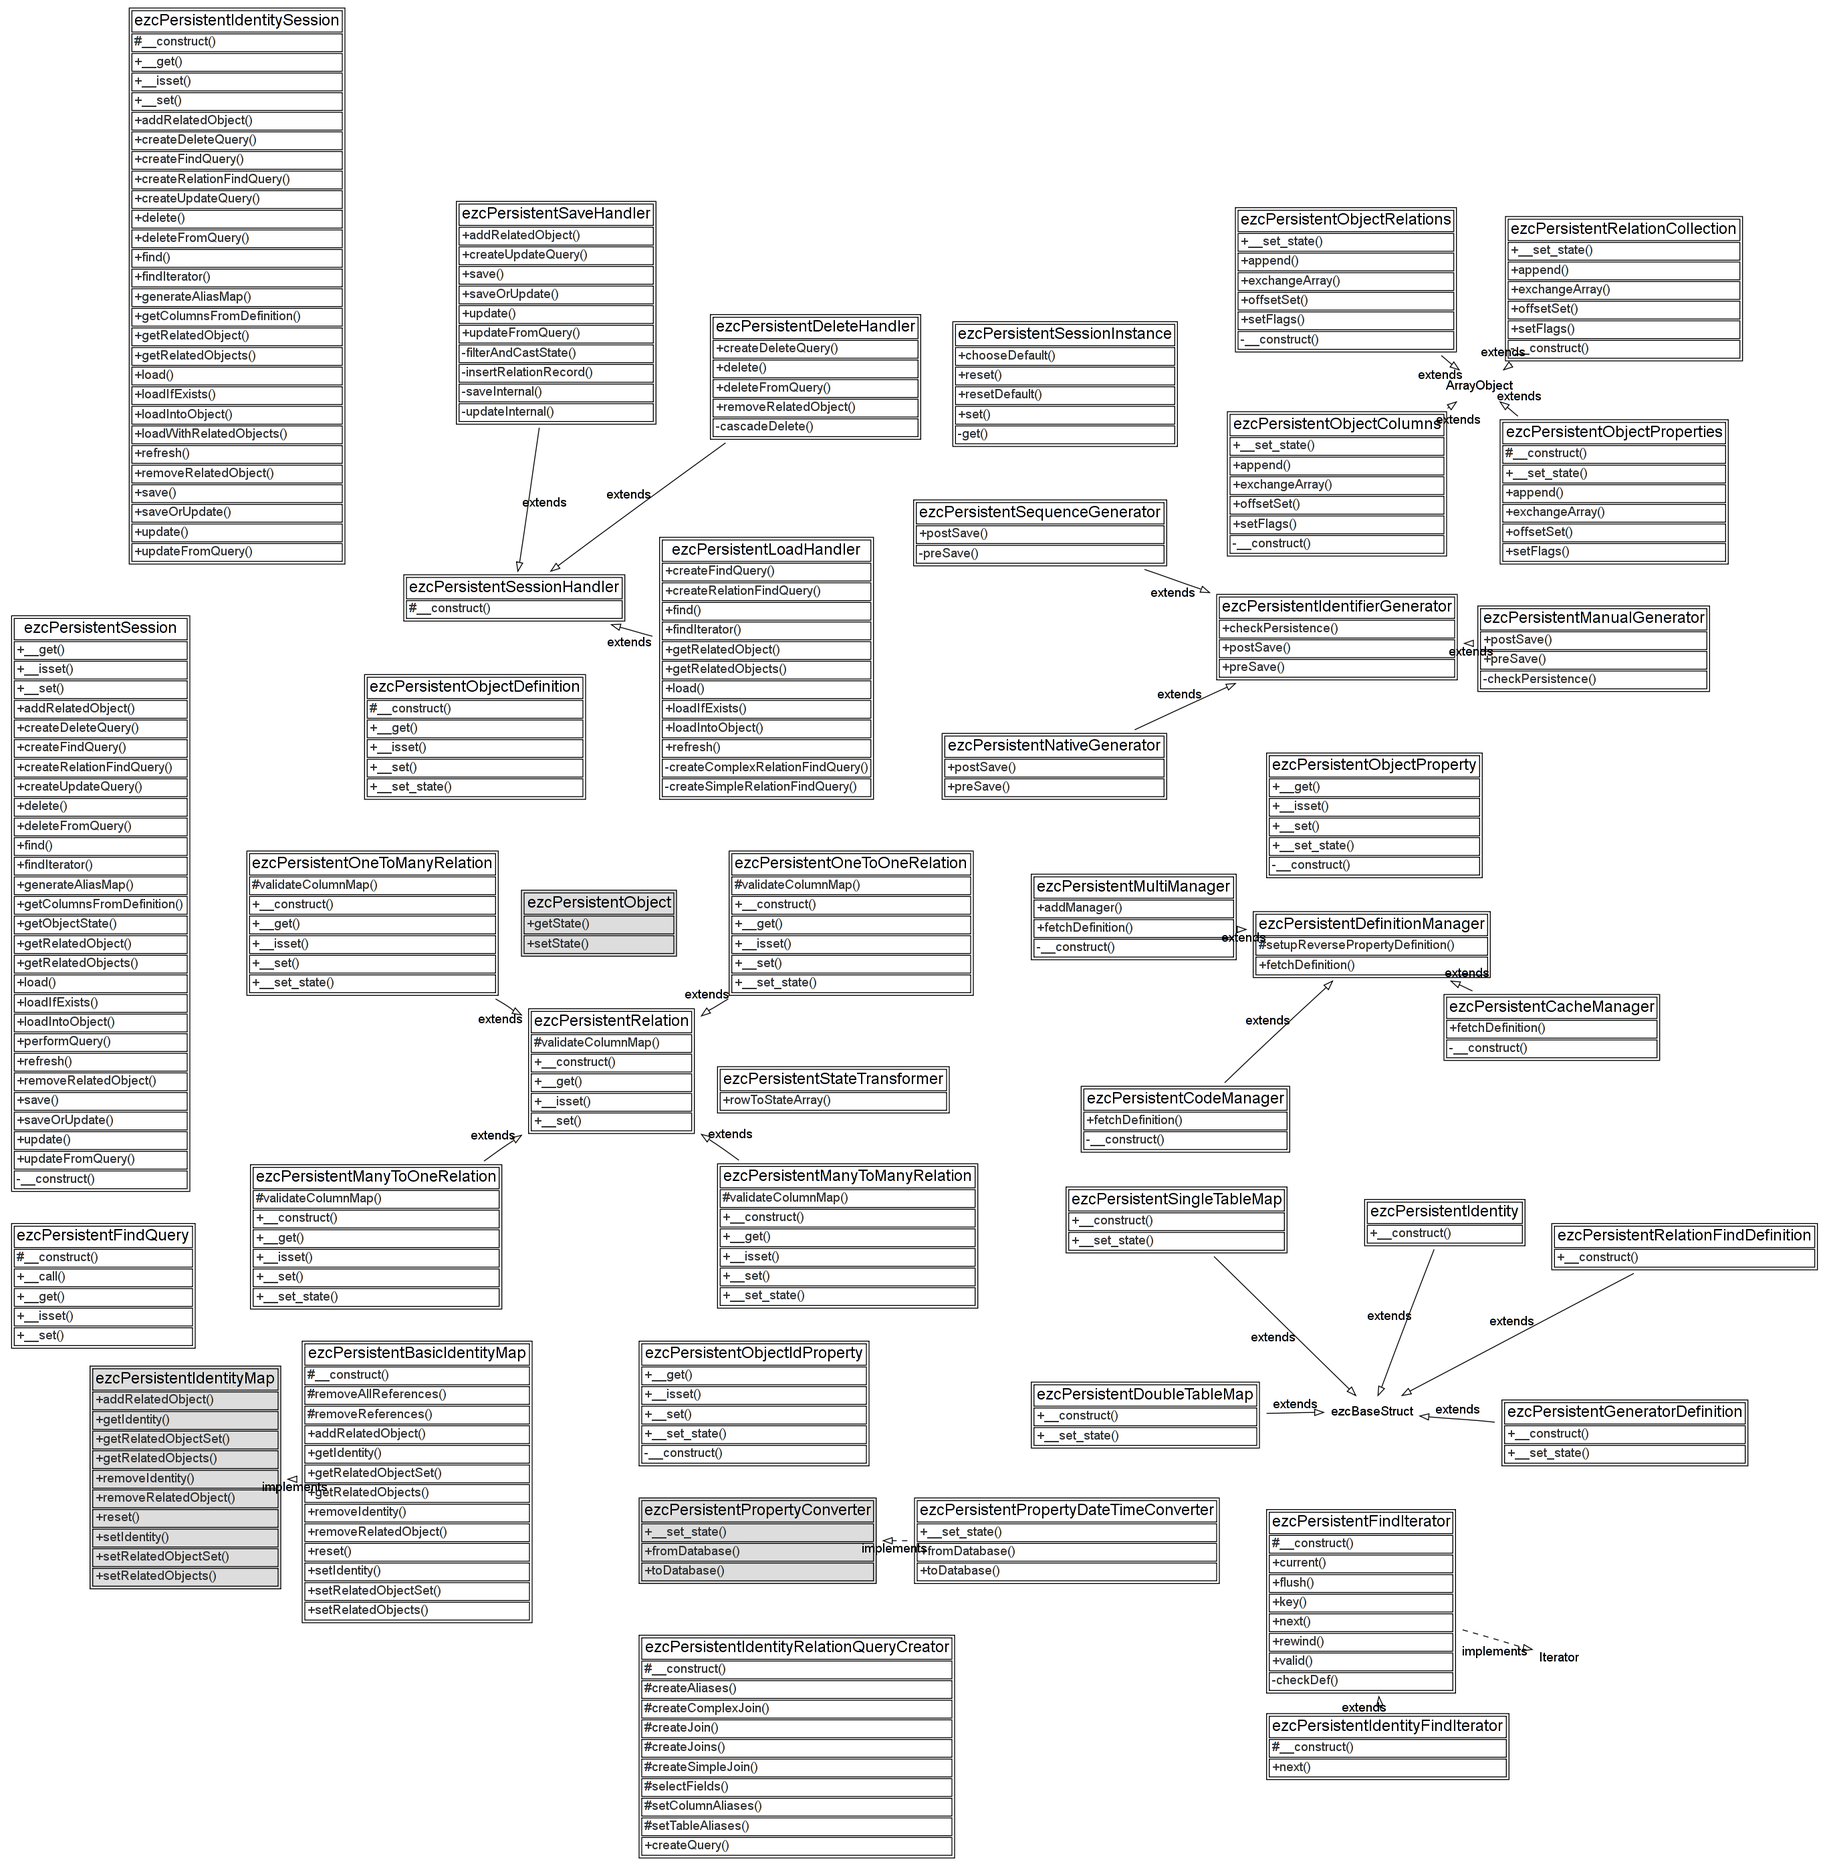
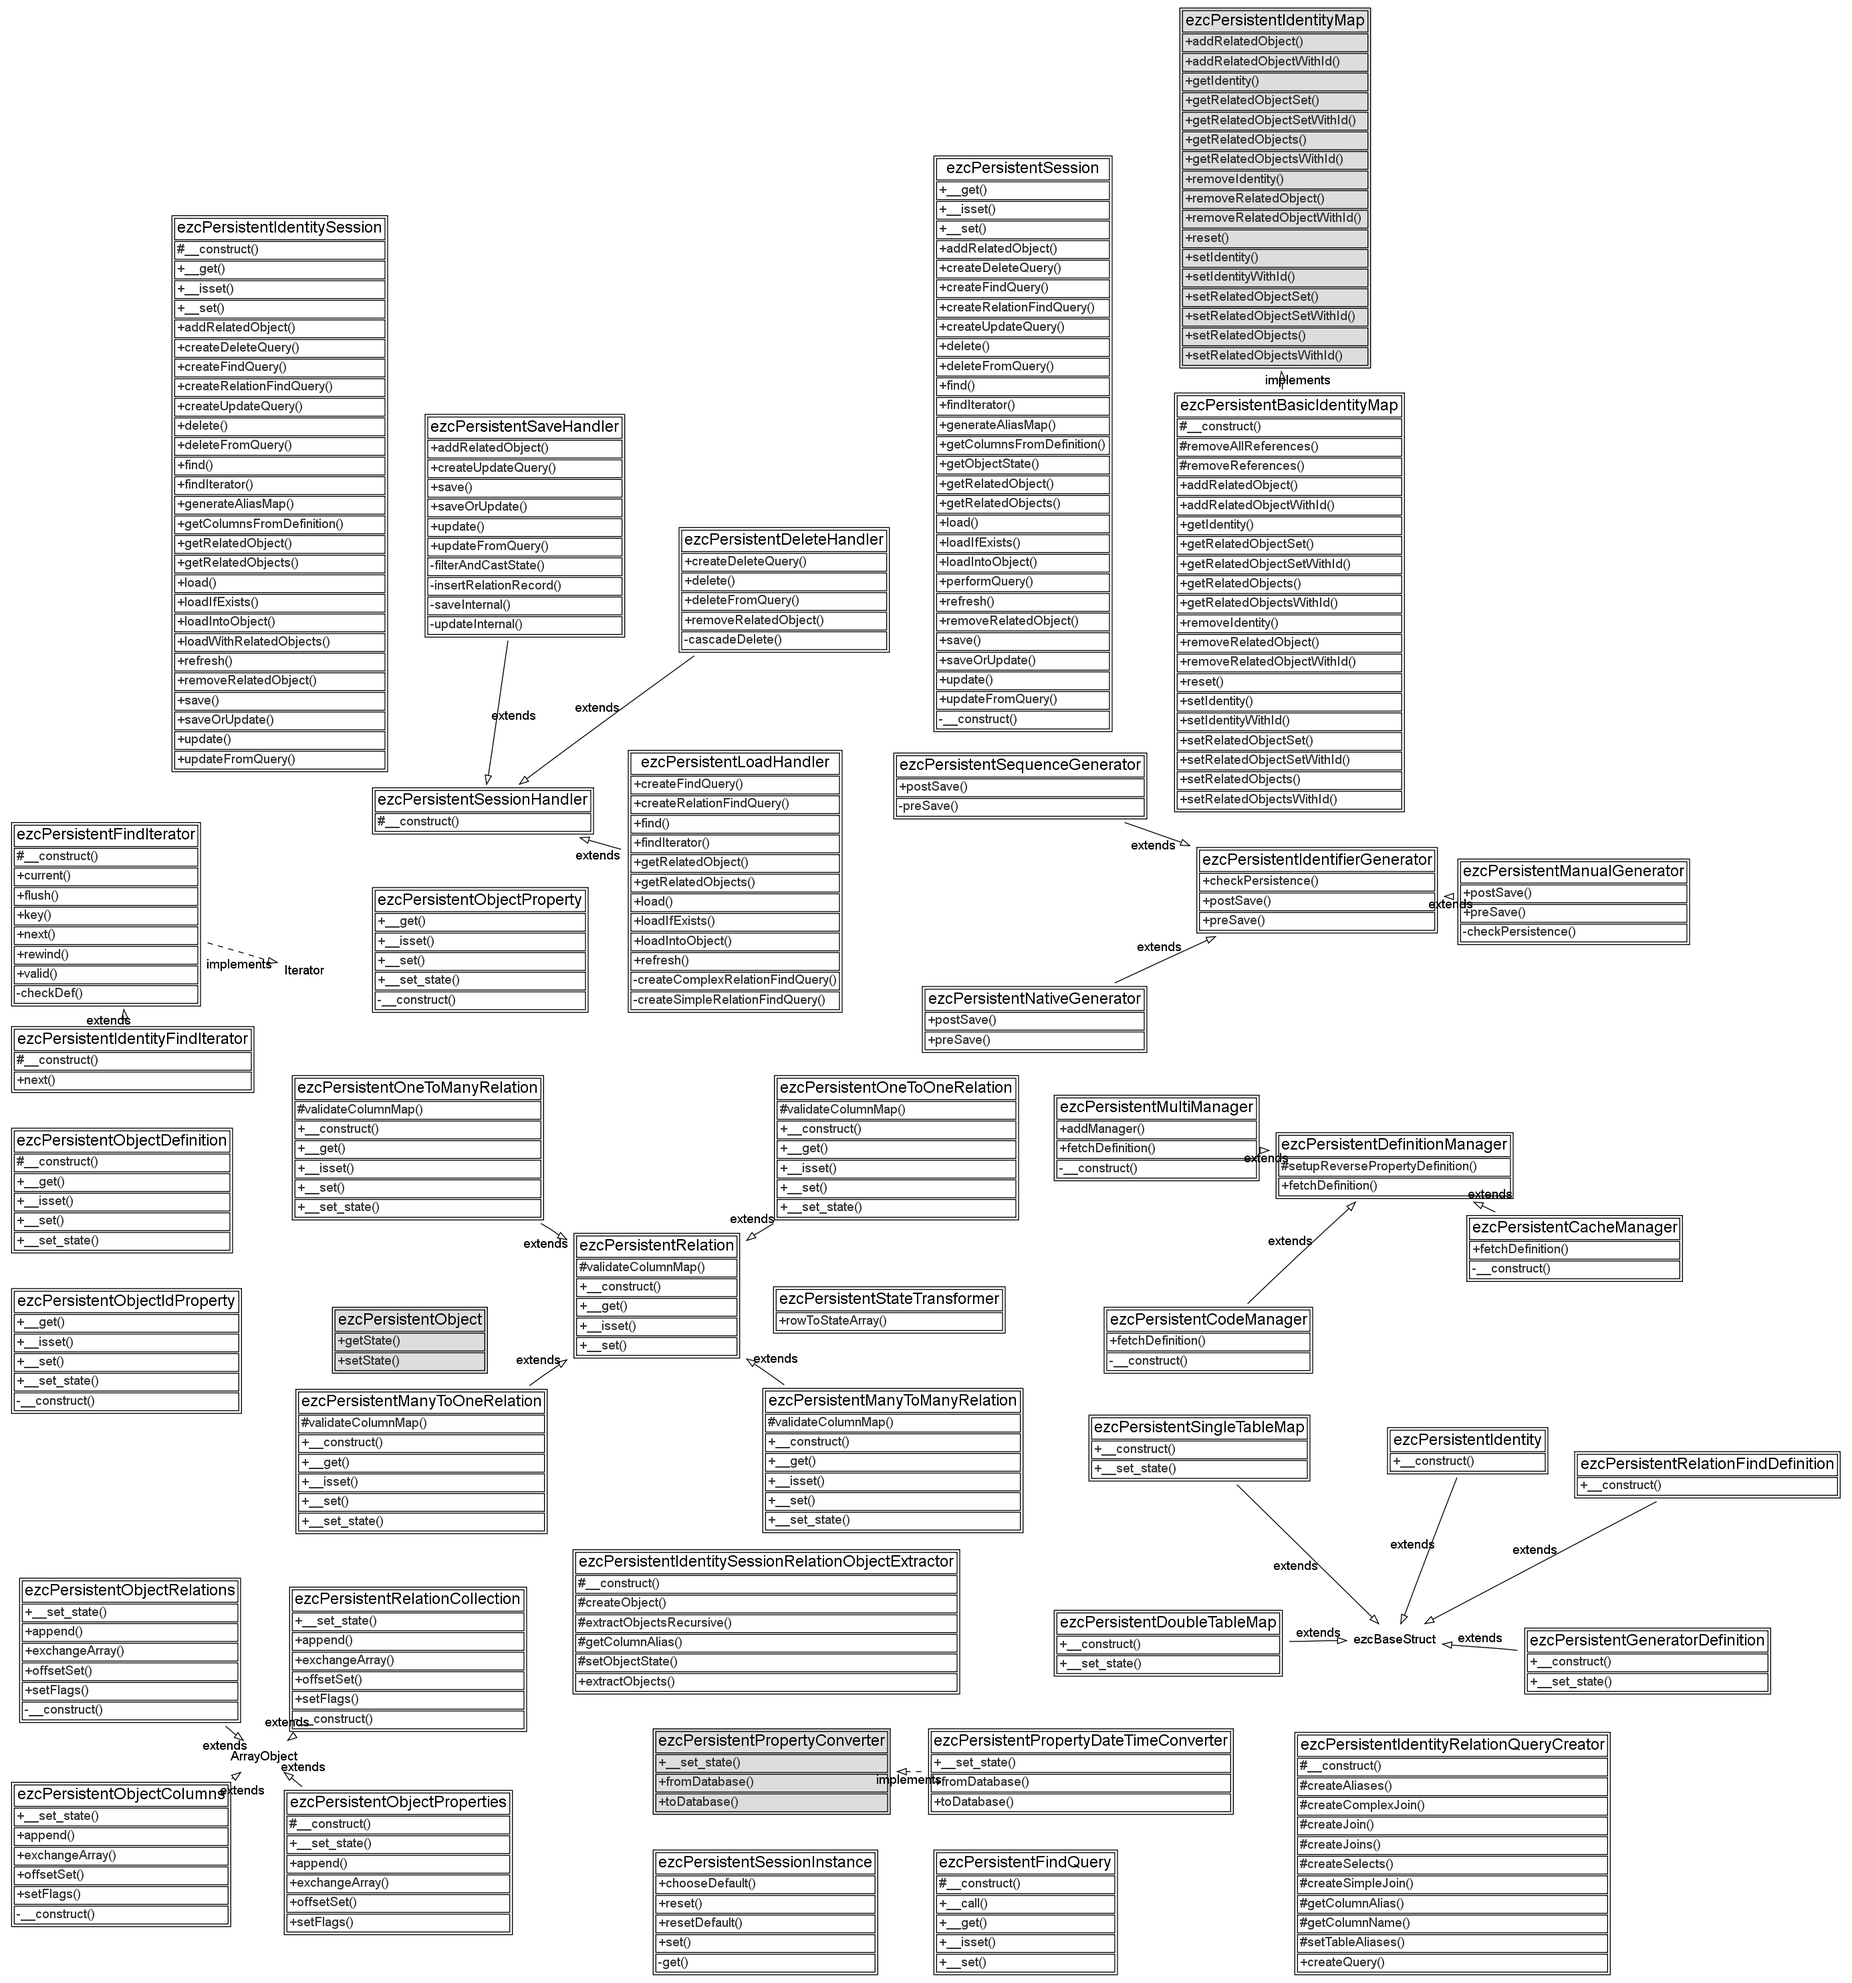
- Added first draft implementation of   ezcPersistentIdentitySessionRelationObjectExtractor and first test case. # More test cases to come.
git-svn-id: http://svn.ez.no/svn/ezcomponents/trunk@9965 bc0e7bdc-f0fc-0310-8ff6-f601c06e1256

Changed region(s): [[0.0, 0.0, 0.9942, 0.9971]]

diff --git a/PersistentObject/src/identity_session/relation_object_extractor.php b/PersistentObject/src/identity_session/relation_object_extractor.php
@@ -1,0 +1,223 @@
+<?php
+
+class ezcPersistentIdentitySessionRelationObjectExtractor
+{
+    /**
+     * Definition manager.
+     * 
+     * @var ezcPersistentDefinitionManager
+     */
+    protected $defManager;
+
+    /**
+     * Identity map.
+     * 
+     * @var ezcPersistentIdentityMap
+     */
+    protected $idMap;
+
+    /**
+     * Creates a new object extractor for $idMap on basis of $defManager.
+     * 
+     * @param ezcPersistentDefinitionManager $defManager 
+     * @return void
+     */
+    public function __construct( ezcPersistentIdentityMap $idMap, ezcPersistentDefinitionManager $defManager )
+    {
+        $this->defManager = $defManager;
+        $this->idMap      = $idMap;
+    }
+
+    /**
+     * Extracts all objects and relations from $stmt.
+     *
+     * Extracts the object of $class with $id from $row and all of its related
+     * objects defined in $relations.
+     * 
+     * @param PDOStatement $stmt 
+     * @param string $class 
+     * @param mixed $id 
+     * @param array $relations 
+     * @return void
+     */
+    public function extractObjects( PDOStatement $stmt, $class, $id, array $relations )
+    {
+        $results = $stmt->fetchAll( PDO::FETCH_ASSOC );
+
+        $def = $this->defManager->fetchDefinition( $class );
+
+        if ( $this->idMap->getIdentity( $class, $id ) === null )
+        {
+            $object = new $class();
+            $this->setObjectState(
+                $object,
+                $def,
+                reset( $results )
+            );
+            $this->idMap->setIdentityWithId( $object, $class, $id );
+        }
+        
+        foreach ( $results as $row )
+        {
+            $this->extractObjectsRecursive( $row, $relations, $class, $id );
+        }
+    }
+
+    /**
+     * Extracts objects recursively from $row.
+     *
+     * Checks if $row contains new objects defined in $relations. If this is
+     * the case, the objects will be extracted and added as related objects of
+     * their class for the object of $parentClass with $parentId.
+     * 
+     * @param array $row 
+     * @param array $relations 
+     * @param string $parentClass 
+     * @param mixed $parentId 
+     * @return void
+     */
+    protected function extractObjectsRecursive( array $row, array $relations, $parentClass, $parentId )
+    {
+        foreach ( $relations as $relation )
+        {
+            $id = $row[
+                $this->getColumnAlias(
+                    $relation->definition->idProperty->columnName,
+                    $relation->tableAlias
+                )
+            ];
+
+            // Check if object was already extracted
+            $object = $this->idMap->getIdentity( $relation->relatedClass, $id );
+            if ( $object === null )
+            {
+                $object = $this->createObject(
+                    $row,
+                    $relation
+                );
+                $this->idMap->setIdentityWithId( $object, $relation->relatedClass, $id );
+            }
+
+            // Check if relations from $parentClass to $relation->relatedClass were already recorded
+            $relatedObjects = $this->idMap->getRelatedObjectsWithId(
+                $parentClass,
+                $parentId,
+                $relation->relatedClass,
+                $relation->relationName
+            );
+            if ( $relatedObjects === null )
+            {
+                // Establish empty related objects to be able to add new later.
+                $relatedObjects = array();
+                $this->idMap->setRelatedObjectsWithId(
+                    $parentClass,
+                    $parentId,
+                    $relatedObjects,
+                    $relation->relatedClass,
+                    $relation->relationName
+                );
+            }
+
+            // Check if relation itself is already recorded
+            if ( !isset( $relatedObjects[$id] ) )
+            {
+                // Add related object
+                // @TODO: This invalidates all named related sets, which is not
+                // a good idea as soon as we support finding restricted related
+                // sets.
+                $this->idMap->addRelatedObjectWithId(
+                    $parentClass,
+                    $parentId,
+                    $relation->relatedClass,
+                    $id,
+                    $object,
+                    $relation->relationName
+                );
+            }
+            
+            // Recurse
+            $this->extractObjectsRecursive(
+                $row,
+                $relation->furtherRelations,
+                $relation->relatedClass,
+                $id
+            );
+        }
+    }
+
+    /**
+     * Creates a new object of $relation->relatedClass with state from $result.
+     *
+     * Creates a new object of the class defined in $relation->relatedClass and
+     * sets its state from the given $result row, as defined in $relation.
+     * 
+     * @param array $result 
+     * @param ezcPersistentRelationFindDefinition $relation 
+     * @return ezcPersistentObject
+     */
+    protected function createObject( array $result, ezcPersistentRelationFindDefinition $relation )
+    {
+        $object = new $relation->relatedClass;
+        $this->setObjectState(
+            $object,
+            $relation->definition,
+            $result,
+            $relation->tableAlias
+        );
+        return $object;
+    }
+
+    /**
+     * Sets the state of $object from $result.
+     *
+     * Sets the state of $object from the $result given, using the $def.
+     * 
+     * @param ezcPersistentObject $object 
+     * @param ezcPersistentObjectDefinition $def 
+     * @param array $result 
+     * @param string $prefix 
+     * @return void
+     */
+    protected function setObjectState( $object, ezcPersistentObjectDefinition $def, array $result, $prefix = null )
+    {
+        $state = array(
+            $def->idProperty->propertyName => $result[
+                $this->getColumnAlias(
+                    $def->idProperty->columnName,
+                    $prefix
+                )
+            ]
+        );
+
+        foreach ( $def->properties as $property )
+        {
+            $state[$property->propertyName] = $result[
+                $this->getColumnAlias( $property->columnName, $prefix )
+            ];
+        }
+
+        $object->setState( $state );
+    }
+
+    /**
+     * Returns the column alias for a $column with $prefix.
+     * 
+     * @param string $column 
+     * @param string $prefix 
+     * @return string
+     */
+    protected function getColumnAlias( $column, $prefix = null )
+    {
+        if ( $prefix === null )
+        {
+            return $column;
+        }
+        return sprintf(
+            '%s_%s',
+            $prefix,
+            $column
+        );
+    }
+}
+
+?>

diff --git a/PersistentObject/tests/persistent_identity_session_relation_object_extractor_test.php b/PersistentObject/tests/persistent_identity_session_relation_object_extractor_test.php
@@ -1,0 +1,123 @@
+<?php
+/**
+ * @copyright Copyright (C) 2005-2009 eZ Systems AS. All rights reserved.
+ * @license http://ez.no/licenses/new_bsd New BSD License
+ * @version //autogentag//
+ * @filesource
+ * @package PersistentObject
+ * @subpackage Tests
+ */
+
+require_once dirname( __FILE__ ) . "/data/relation_test_employer.php";
+require_once dirname( __FILE__ ) . "/data/relation_test_person.php";
+require_once dirname( __FILE__ ) . "/data/relation_test_address.php";
+
+/**
+ * Tests ezcPersistentManyToOneRelation class.
+ *
+ * @package PersistentObject
+ * @subpackage Tests
+ */
+class ezcPersistentIdentitySessionRelationObjectExtractorTest extends ezcTestCase
+{
+    protected $defManager;
+
+    protected $sesstion;
+
+    protected $idMap;
+
+    protected $creator;
+
+    protected $extractor;
+
+    public static function suite()
+    {
+        return new PHPUnit_Framework_TestSuite( __CLASS__ );
+    }
+
+    public function setup()
+    {
+        try
+        {
+            $this->db = ezcDbInstance::get();
+        }
+        catch ( Exception $e )
+        {
+            $this->markTestSkipped( 'There was no database configured' );
+        }
+        RelationTestPerson::setupTables();
+        RelationTestPerson::insertData();
+
+        // @TODO: This is currently needed to fix the attribute set in
+        // ezcDbHandler. Should be removed as soon as this is fixed!
+        $this->db->setAttribute( PDO::ATTR_CASE, PDO::CASE_NATURAL );
+
+        $this->defManager = new ezcPersistentCodeManager( dirname( __FILE__ ) . "/data/" );
+
+        $this->session = new ezcPersistentSession(
+            ezcDbInstance::get(),
+            $this->defManager
+        );
+
+        $this->idMap = new ezcPersistentBasicIdentityMap(
+            $this->defManager
+        );
+
+        $this->creator = new ezcPersistentIdentityRelationQueryCreator(
+            $this->defManager
+        );
+
+        $this->extractor = new ezcPersistentIdentitySessionRelationObjectExtractor(
+            $this->idMap,
+            $this->defManager
+        );
+    }
+
+    public function teardown()
+    {
+        RelationTestEmployer::cleanup();
+    }
+
+    public function testOneLevelOneRelationExtract()
+    {
+        // Prepare PDOStatement
+        $relations = array(
+            new ezcPersistentRelationFindDefinition(
+                'RelationTestEmployer'
+            ),
+        );
+        $q = $this->session->database->createSelectQuery();
+        $this->creator->createQuery( $q, 'RelationTestPerson', 2, $relations );
+        
+        $stmt = $q->prepare();
+        $stmt->execute();
+
+        // Actual test
+        $this->extractor->extractObjects(
+            $stmt, 'RelationTestPerson', 2, $relations
+        );
+
+        $person = $this->idMap->getIdentity( 'RelationTestPerson', 2 );
+        $this->assertNotNull( $person );
+        $this->assertEquals(
+            $this->session->load( 'RelationTestPerson', 2 ),
+            $person
+        );
+
+        $employers = $this->idMap->getRelatedObjects(
+            $person, 'RelationTestEmployer'
+        );
+        
+        $this->assertNotNull( $employers );
+
+        $this->assertEquals( 1, count( $employers ) );
+
+        $this->assertEquals(
+            current( $employers ),
+            current( $this->session->getRelatedObjects( $person, 'RelationTestEmployer' ) )
+        );
+    }
+    
+}
+
+?>

diff --git a/PersistentObject/src/persistent_autoload.php b/PersistentObject/src/persistent_autoload.php
@@ -46,6 +46,7 @@ return array(
     'ezcPersistentIdentityFindIterator'                        => 'PersistentObject/identity_find_iterator.php',
     'ezcPersistentIdentityRelationQueryCreator'                => 'PersistentObject/identity_session/relation_query_creator.php',
     'ezcPersistentIdentitySession'                             => 'PersistentObject/persistent_identity_session.php',
+    'ezcPersistentIdentitySessionRelationObjectExtractor'      => 'PersistentObject/identity_session/relation_object_extractor.php',
     'ezcPersistentLoadHandler'                                 => 'PersistentObject/handlers/load_handler.php',
     'ezcPersistentManualGenerator'                             => 'PersistentObject/generators/manual_generator.php',
     'ezcPersistentManyToManyRelation'                          => 'PersistentObject/relations/many_to_many.php',
